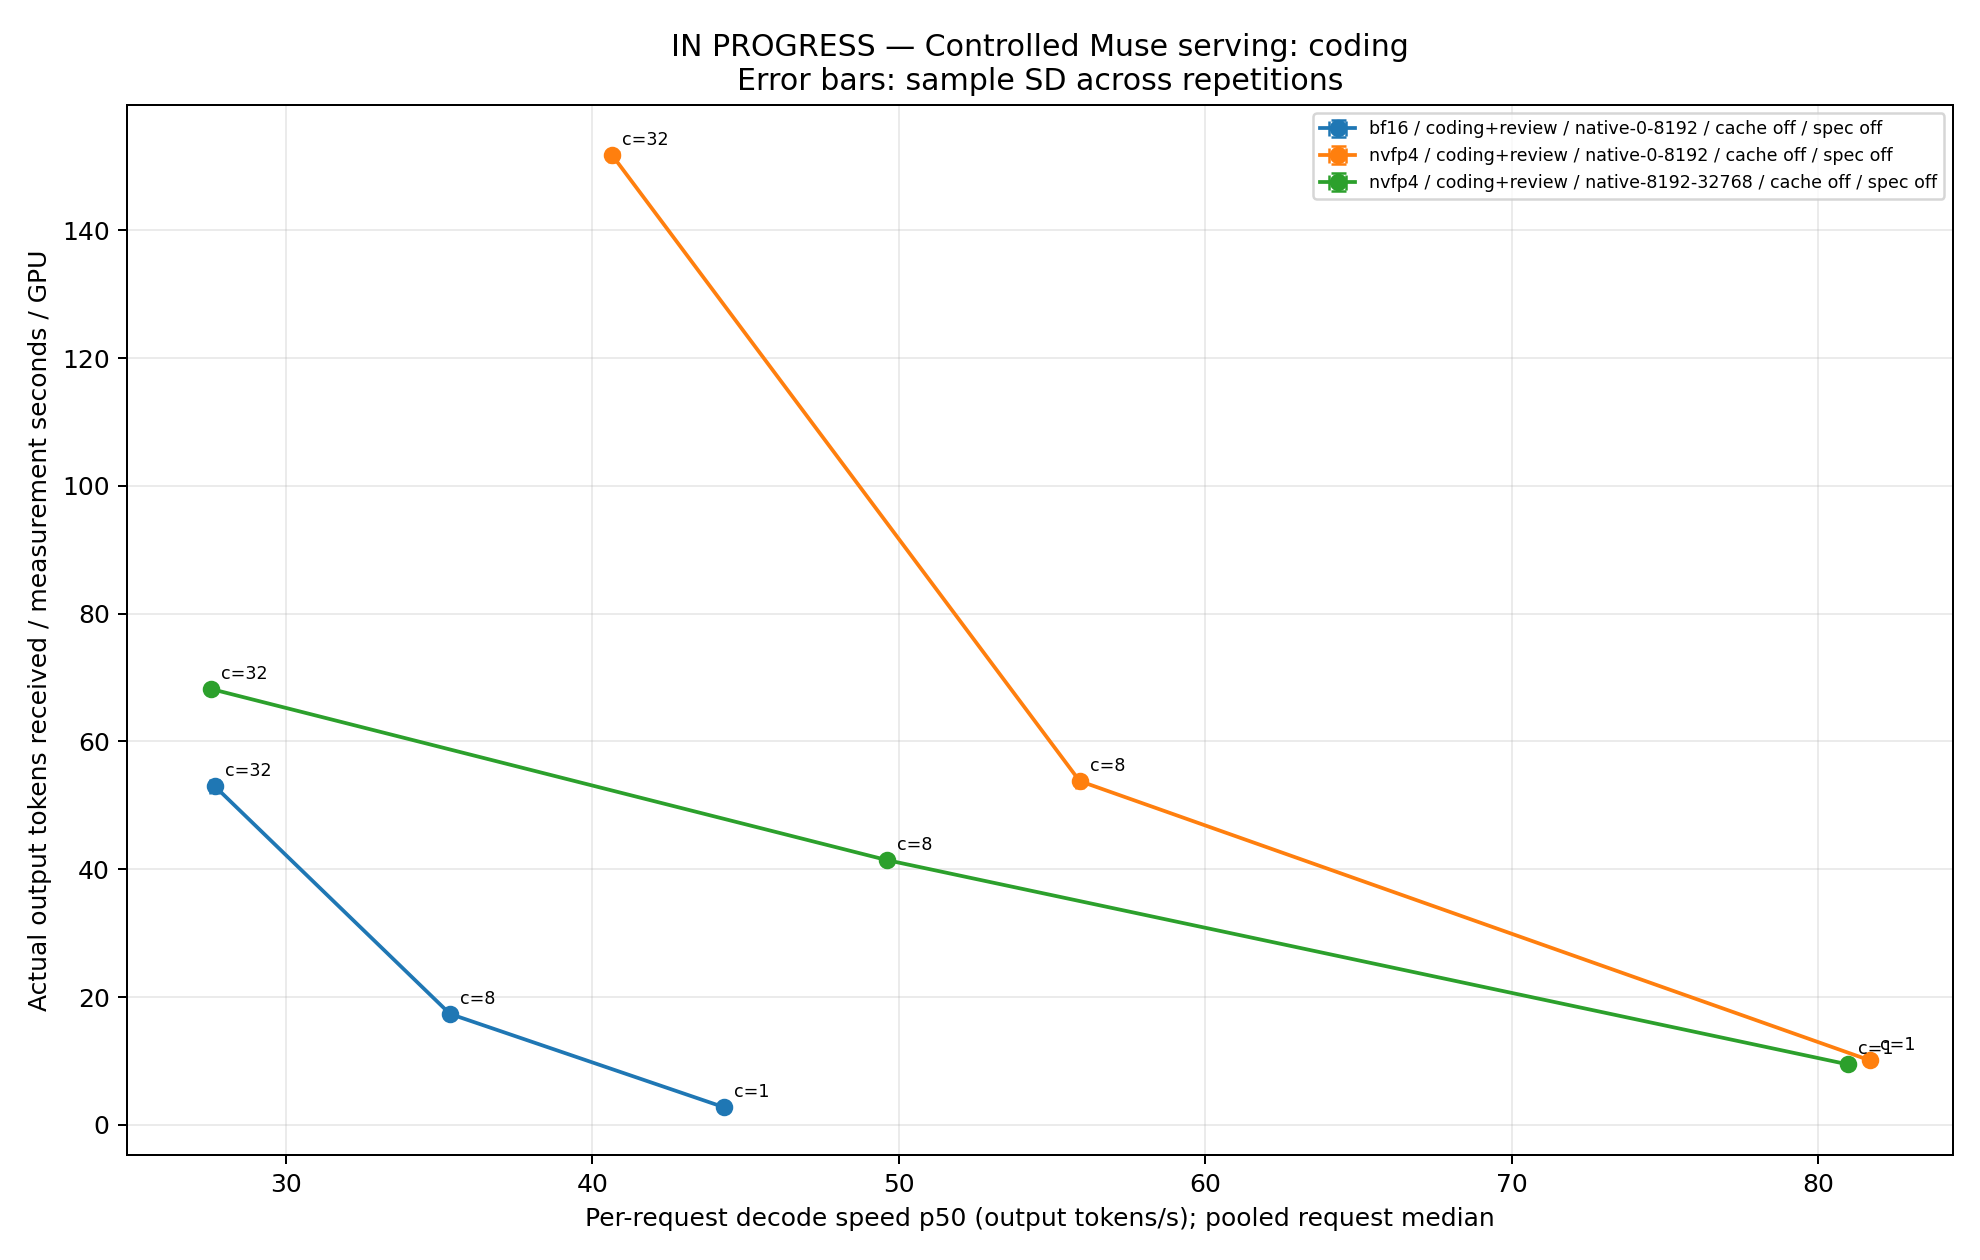
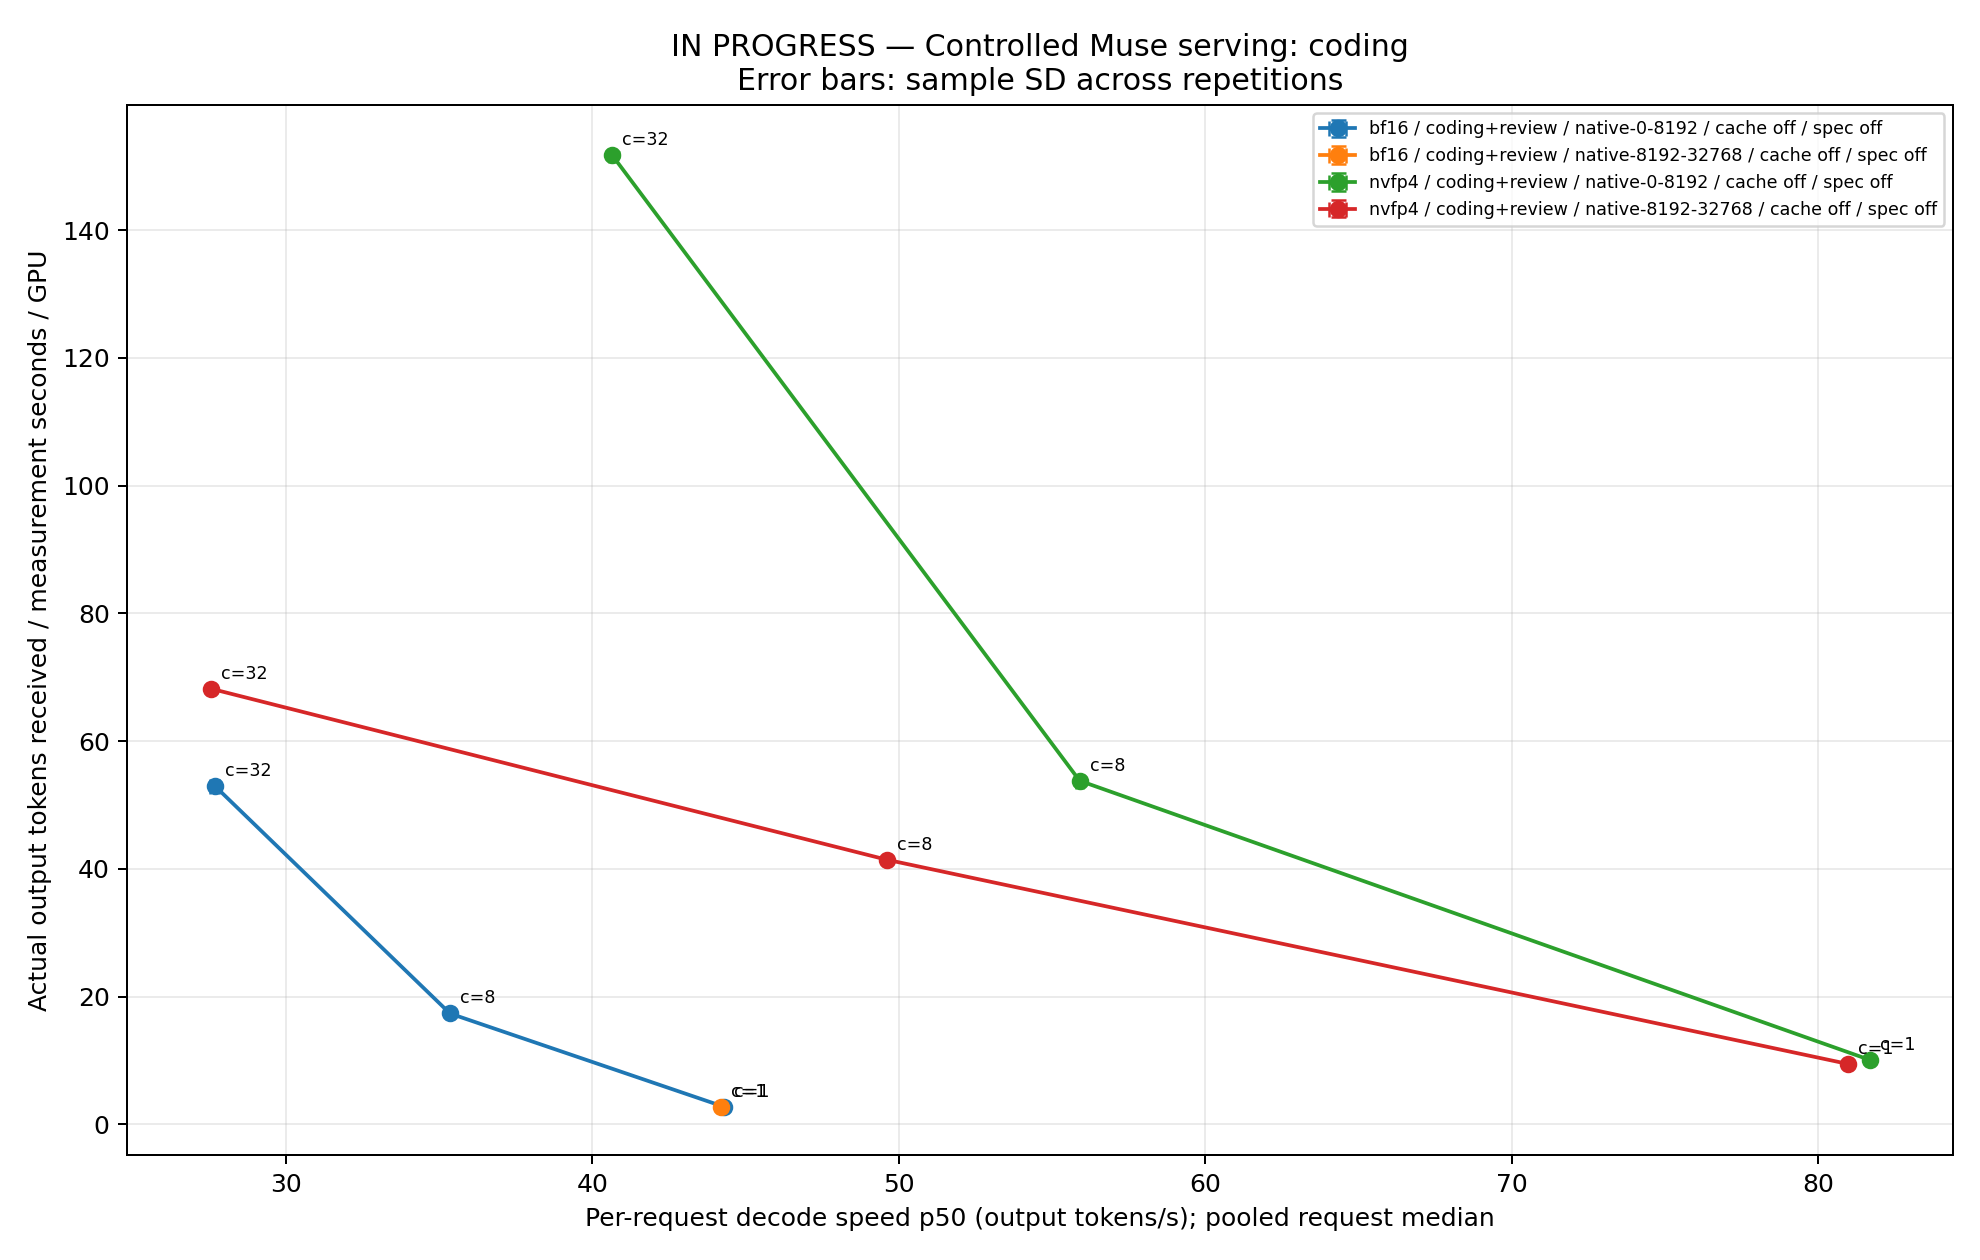
Update controlled Muse performance experiment progress

diff --git a/evidence/muse_controlled_perf_20261028/REPORT.zh-CN.md b/evidence/muse_controlled_perf_20261028/REPORT.zh-CN.md
@@ -2,7 +2,7 @@
 
 以下结果为进行中的测量；完整曲线、长上下文与投机对照尚未全部完成。
 
-更新时间：2026-10-28 23:52:54 UTC。
+更新时间：2026-10-29 00:07:56 UTC。
 
 配置、模型完整 revision、镜像 digest、实际启动命令、物理 GPU 与 native server_info：[reproducibility.json](reproducibility.json)。
 
@@ -13,6 +13,7 @@
 | bf16/native-0-8192 | False/off | 1 | 3 | 2302.388 | 99/0 | 2.750 ± 0.001 | 44.307 ± 0.010 | 0.165/0.231 | 22.570/22.621 | 23.255/23.369 |
 | bf16/native-0-8192 | False/off | 8 | 3 | 441.207 | 120/0 | 17.372 ± 0.078 | 35.356 ± 0.023 | 0.683/1.132 | 28.284/28.571 | 29.646/29.978 |
 | bf16/native-0-8192 | False/off | 32 | 3 | 360.447 | 288/0 | 52.979 ± 0.087 | 27.685 ± 0.145 | 1.747/2.356 | 36.121/37.036 | 38.687/38.909 |
+| bf16/native-8192-32768 | False/off | 1 | 3 | 2367.300 | 99/0 | 2.676 ± 0.001 | 44.195 ± 0.017 | 0.711/0.819 | 22.627/22.656 | 23.889/23.978 |
 | bf16/32768 | False/off | 1 | 3 | 2489.322 | 99/0 | 2.545 ± 0.002 | 44.184 ± 0.034 | 1.998/2.004 | 22.632/22.644 | 25.150/25.166 |
 | bf16/32768 | False/off | 8 | 3 | 617.147 | 120/0 | 12.442 ± 0.011 | 29.197 ± 0.035 | 9.185/15.861 | 34.270/41.021 | 44.259/44.409 |
 | bf16/32768 | False/off | 32 | 3 | 622.057 | 192/0 | 19.754 ± 0.013 | 14.492 ± 0.006 | 33.006/61.690 | 69.016/96.987 | 103.686/103.851 |
@@ -60,7 +61,7 @@
 
 coding+review 各 native 输入长度桶及投机开关分别成线：[coding.png](coding.png)。
 
-已完成 43 / 62 个当前列出的目标测点。真实 coding 输入分桶在准备后展开；自适应扩展另见 SATURATION/EXTENSION 记录。
+已完成 44 / 62 个当前列出的目标测点。真实 coding 输入分桶在准备后展开；自适应扩展另见 SATURATION/EXTENSION 记录。
 
 | 模型 | 输入/工作负载 | 缓存 | 投机 | 并发 | 有效重复/目标 | 状态 |
 |---|---|---|---|---:|---:|---|
@@ -119,7 +120,7 @@ coding+review 各 native 输入长度桶及投机开关分别成线：[coding.pn
 | bf16 | coding/native-0-8192 | False | off | 1 | 3/3 | complete |
 | bf16 | coding/native-0-8192 | False | off | 8 | 3/3 | complete |
 | bf16 | coding/native-0-8192 | False | off | 32 | 3/3 | complete |
-| bf16 | coding/native-8192-32768 | False | off | 1 | 2/3 | partial |
+| bf16 | coding/native-8192-32768 | False | off | 1 | 3/3 | complete |
 | bf16 | coding/native-8192-32768 | False | off | 8 | 0/3 | pending |
 | bf16 | coding/native-8192-32768 | False | off | 32 | 0/3 | pending |
 | bf16 | coding/native-input-bins-pending | False | NGRAM | 1 | 0/3 | pending |
